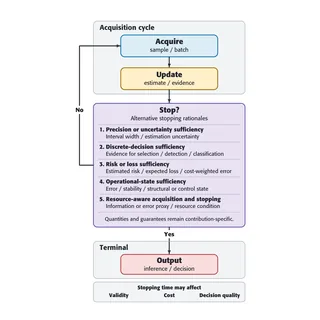
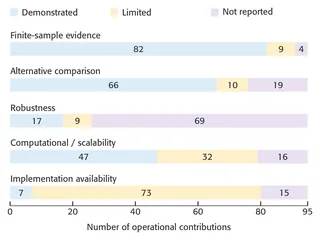
fix: use a tightly cropped Figure 6 as the nunes2026stopping thumbnail
The publication page no longer forces images into a square, so
non-square figures are shown whole.

diff --git a/publications/nunes2026stopping/index.html b/publications/nunes2026stopping/index.html
@@ -77,7 +77,7 @@
   <noscript>
       <link href="https://fonts.googleapis.com/css2?family=Inter:wght@400;500;600;700;800&display=swap" rel="stylesheet" />
   </noscript>
-  <link href="/css/style.css?v=aaf8f2ce" rel="stylesheet" />
+  <link href="/css/style.css?v=7e3d5254" rel="stylesheet" />
   <link href="/css/icons.css" media="print" onload="this.media='all'" rel="stylesheet" />
   <noscript>
       <link href="/css/icons.css" rel="stylesheet" />
@@ -152,7 +152,7 @@
       </div>
 
       <figure class="paper-figure">
-        <img src="/img/opt/nunes2026stopping-880.webp" width="880" height="880" alt="Preview of paper: Stopping Criteria in Simulation: A Survey of Methods, Applications, Challenges, and Future Directions" />
+        <img src="/img/opt/nunes2026stopping-880.webp" width="880" height="660" alt="Preview of paper: Stopping Criteria in Simulation: A Survey of Methods, Applications, Challenges, and Future Directions" />
       </figure>
 
       <section class="paper-section">

diff --git a/publications.html b/publications.html
@@ -393,7 +393,7 @@
       <!-- 2026 -->
       <div class="publication-item-with-thumb reveal" id="nunes2026stopping">
         <div class="pub-thumb">
-          <img width="320" height="320" alt="Preview of paper: Stopping Criteria in Simulation: A Survey of Methods, Applications, Challenges, and Future Directions" loading="lazy" src="img/opt/nunes2026stopping-320.webp" />
+          <img width="320" height="240" alt="Preview of paper: Stopping Criteria in Simulation: A Survey of Methods, Applications, Challenges, and Future Directions" loading="lazy" src="img/opt/nunes2026stopping-320.webp" />
         </div>
         <div class="pub-content">
           <div class="pub-title">

diff --git a/publications/dantas2025asa/index.html b/publications/dantas2025asa/index.html
@@ -121,7 +121,7 @@
   <noscript>
       <link href="https://fonts.googleapis.com/css2?family=Inter:wght@400;500;600;700;800&display=swap" rel="stylesheet" />
   </noscript>
-  <link href="/css/style.css?v=aaf8f2ce" rel="stylesheet" />
+  <link href="/css/style.css?v=7e3d5254" rel="stylesheet" />
   <link href="/css/icons.css" media="print" onload="this.media='all'" rel="stylesheet" />
   <noscript>
       <link href="/css/icons.css" rel="stylesheet" />

diff --git a/publications/dantas2025deep/index.html b/publications/dantas2025deep/index.html
@@ -110,7 +110,7 @@
   <noscript>
       <link href="https://fonts.googleapis.com/css2?family=Inter:wght@400;500;600;700;800&display=swap" rel="stylesheet" />
   </noscript>
-  <link href="/css/style.css?v=aaf8f2ce" rel="stylesheet" />
+  <link href="/css/style.css?v=7e3d5254" rel="stylesheet" />
   <link href="/css/icons.css" media="print" onload="this.media='all'" rel="stylesheet" />
   <noscript>
       <link href="/css/icons.css" rel="stylesheet" />

diff --git a/publications/patrikar2022challenges/index.html b/publications/patrikar2022challenges/index.html
@@ -121,7 +121,7 @@
   <noscript>
       <link href="https://fonts.googleapis.com/css2?family=Inter:wght@400;500;600;700;800&display=swap" rel="stylesheet" />
   </noscript>
-  <link href="/css/style.css?v=aaf8f2ce" rel="stylesheet" />
+  <link href="/css/style.css?v=7e3d5254" rel="stylesheet" />
   <link href="/css/icons.css" media="print" onload="this.media='all'" rel="stylesheet" />
   <noscript>
       <link href="/css/icons.css" rel="stylesheet" />

diff --git a/publications/patrikar2025image/index.html b/publications/patrikar2025image/index.html
@@ -111,7 +111,7 @@
   <noscript>
       <link href="https://fonts.googleapis.com/css2?family=Inter:wght@400;500;600;700;800&display=swap" rel="stylesheet" />
   </noscript>
-  <link href="/css/style.css?v=aaf8f2ce" rel="stylesheet" />
+  <link href="/css/style.css?v=7e3d5254" rel="stylesheet" />
   <link href="/css/icons.css" media="print" onload="this.media='all'" rel="stylesheet" />
   <noscript>
       <link href="/css/icons.css" rel="stylesheet" />

diff --git a/publications/silva2025asafg/index.html b/publications/silva2025asafg/index.html
@@ -110,7 +110,7 @@
   <noscript>
       <link href="https://fonts.googleapis.com/css2?family=Inter:wght@400;500;600;700;800&display=swap" rel="stylesheet" />
   </noscript>
-  <link href="/css/style.css?v=aaf8f2ce" rel="stylesheet" />
+  <link href="/css/style.css?v=7e3d5254" rel="stylesheet" />
   <link href="/css/icons.css" media="print" onload="this.media='all'" rel="stylesheet" />
   <noscript>
       <link href="/css/icons.css" rel="stylesheet" />

diff --git a/publications/araujo2025analise/index.html b/publications/araujo2025analise/index.html
@@ -81,7 +81,7 @@
   <noscript>
       <link href="https://fonts.googleapis.com/css2?family=Inter:wght@400;500;600;700;800&display=swap" rel="stylesheet" />
   </noscript>
-  <link href="/css/style.css?v=aaf8f2ce" rel="stylesheet" />
+  <link href="/css/style.css?v=7e3d5254" rel="stylesheet" />
   <link href="/css/icons.css" media="print" onload="this.media='all'" rel="stylesheet" />
   <noscript>
       <link href="/css/icons.css" rel="stylesheet" />

diff --git a/publications/costa2022formation/index.html b/publications/costa2022formation/index.html
@@ -87,7 +87,7 @@
   <noscript>
       <link href="https://fonts.googleapis.com/css2?family=Inter:wght@400;500;600;700;800&display=swap" rel="stylesheet" />
   </noscript>
-  <link href="/css/style.css?v=aaf8f2ce" rel="stylesheet" />
+  <link href="/css/style.css?v=7e3d5254" rel="stylesheet" />
   <link href="/css/icons.css" media="print" onload="this.media='all'" rel="stylesheet" />
   <noscript>
       <link href="/css/icons.css" rel="stylesheet" />

diff --git a/publications/costa2023analysis/index.html b/publications/costa2023analysis/index.html
@@ -63,7 +63,7 @@
   <noscript>
       <link href="https://fonts.googleapis.com/css2?family=Inter:wght@400;500;600;700;800&display=swap" rel="stylesheet" />
   </noscript>
-  <link href="/css/style.css?v=aaf8f2ce" rel="stylesheet" />
+  <link href="/css/style.css?v=7e3d5254" rel="stylesheet" />
   <link href="/css/icons.css" media="print" onload="this.media='all'" rel="stylesheet" />
   <noscript>
       <link href="/css/icons.css" rel="stylesheet" />

diff --git a/publications/costa2025simulation/index.html b/publications/costa2025simulation/index.html
@@ -85,7 +85,7 @@
   <noscript>
       <link href="https://fonts.googleapis.com/css2?family=Inter:wght@400;500;600;700;800&display=swap" rel="stylesheet" />
   </noscript>
-  <link href="/css/style.css?v=aaf8f2ce" rel="stylesheet" />
+  <link href="/css/style.css?v=7e3d5254" rel="stylesheet" />
   <link href="/css/icons.css" media="print" onload="this.media='all'" rel="stylesheet" />
   <noscript>
       <link href="/css/icons.css" rel="stylesheet" />

diff --git a/publications/dantas2012estudo/index.html b/publications/dantas2012estudo/index.html
@@ -61,7 +61,7 @@
   <noscript>
       <link href="https://fonts.googleapis.com/css2?family=Inter:wght@400;500;600;700;800&display=swap" rel="stylesheet" />
   </noscript>
-  <link href="/css/style.css?v=aaf8f2ce" rel="stylesheet" />
+  <link href="/css/style.css?v=7e3d5254" rel="stylesheet" />
   <link href="/css/icons.css" media="print" onload="this.media='all'" rel="stylesheet" />
   <noscript>
       <link href="/css/icons.css" rel="stylesheet" />
